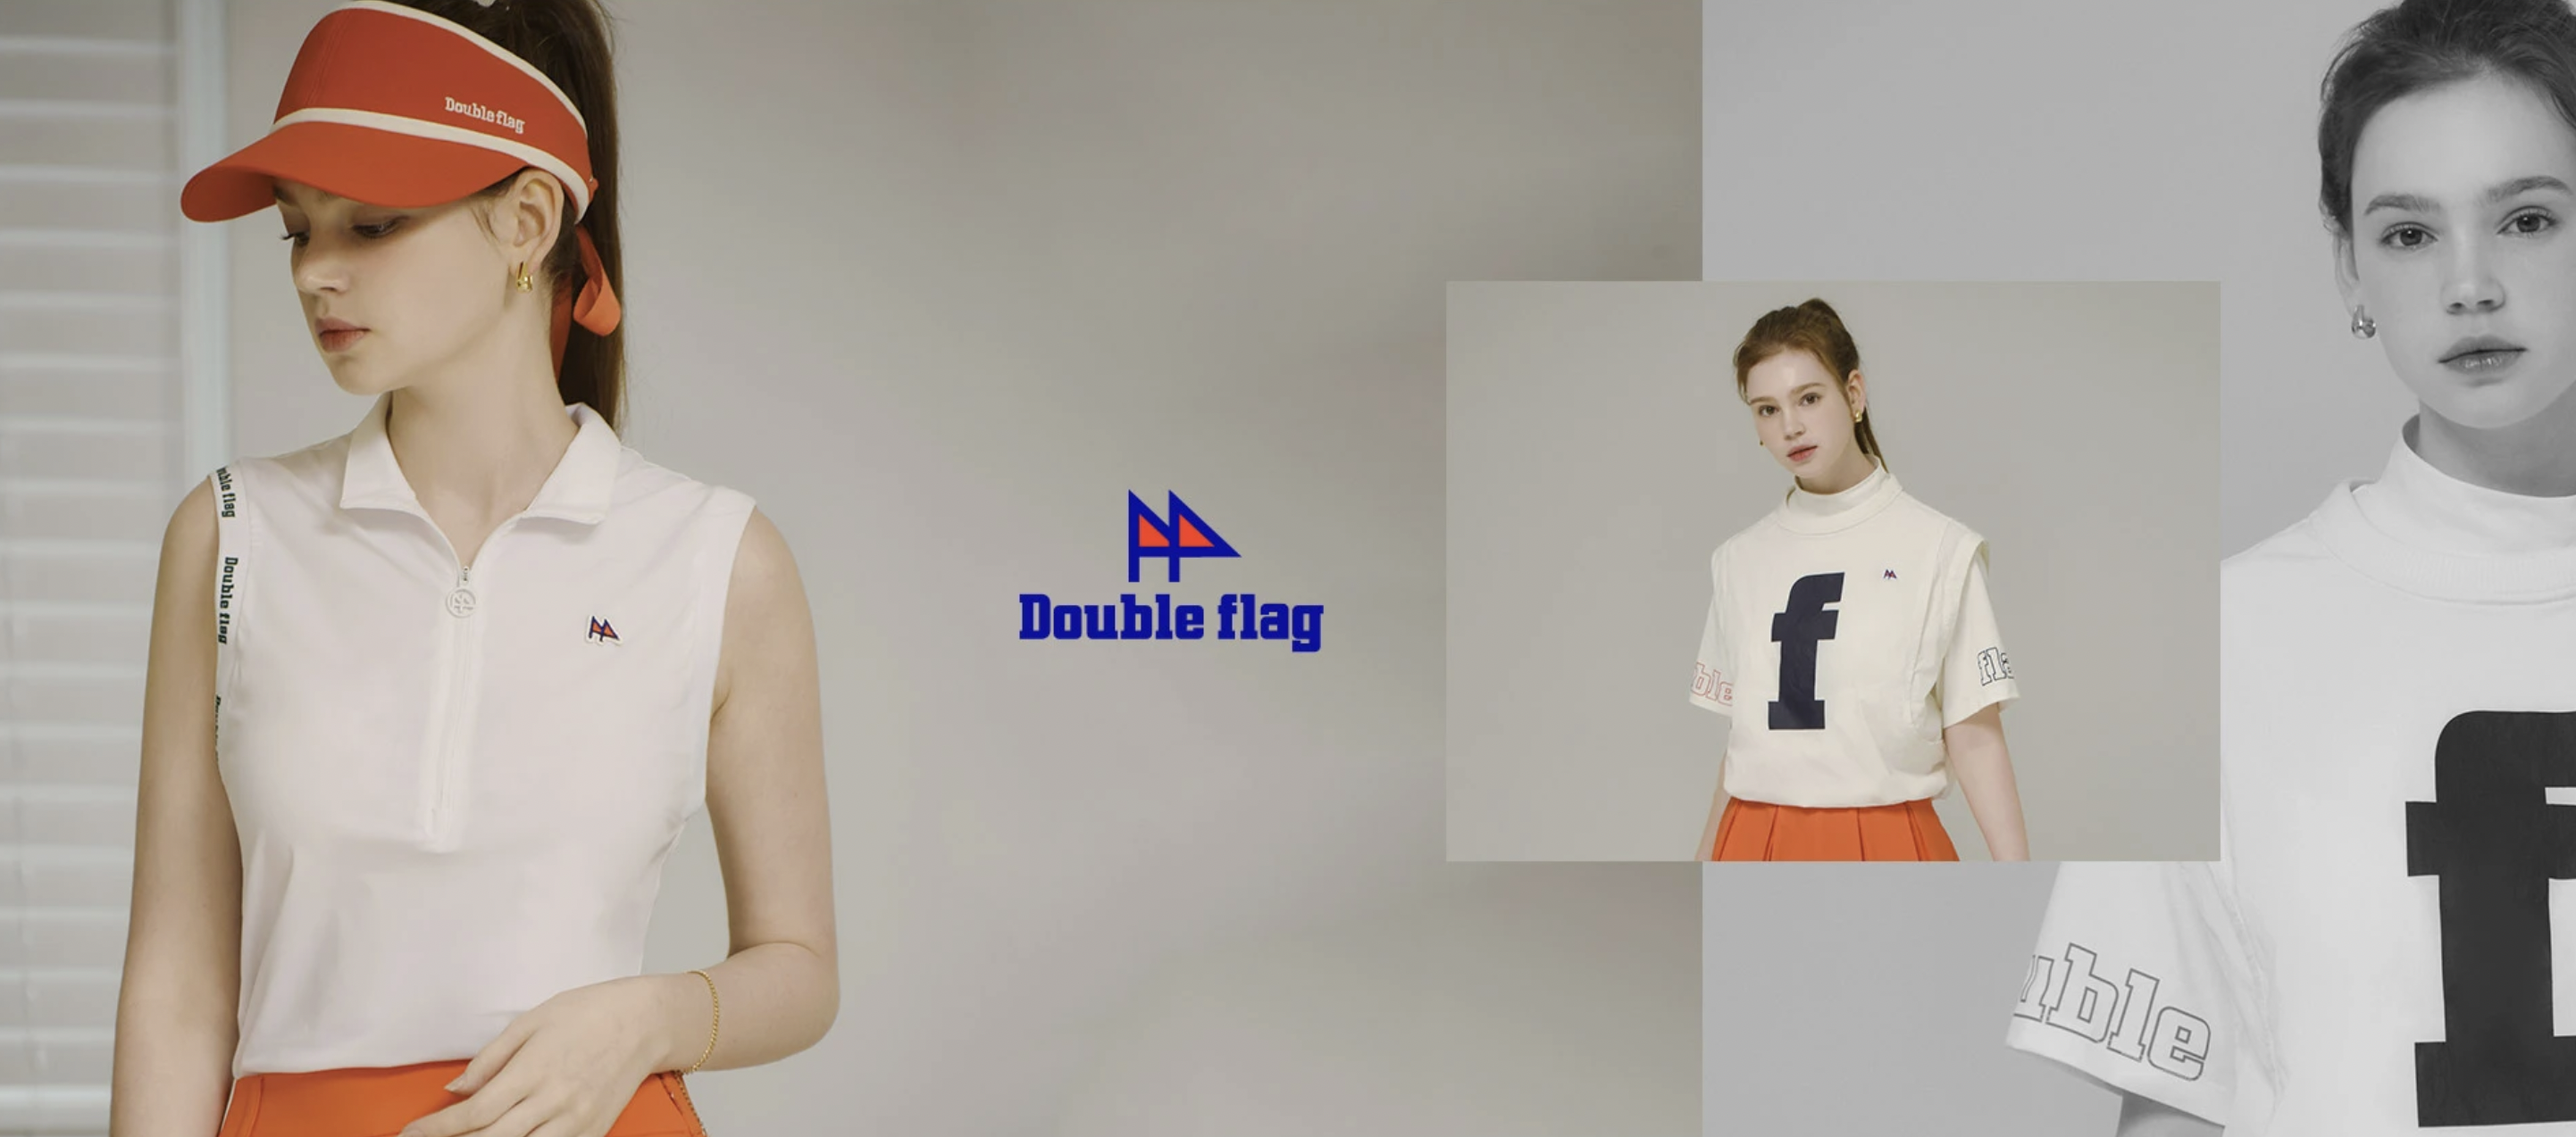
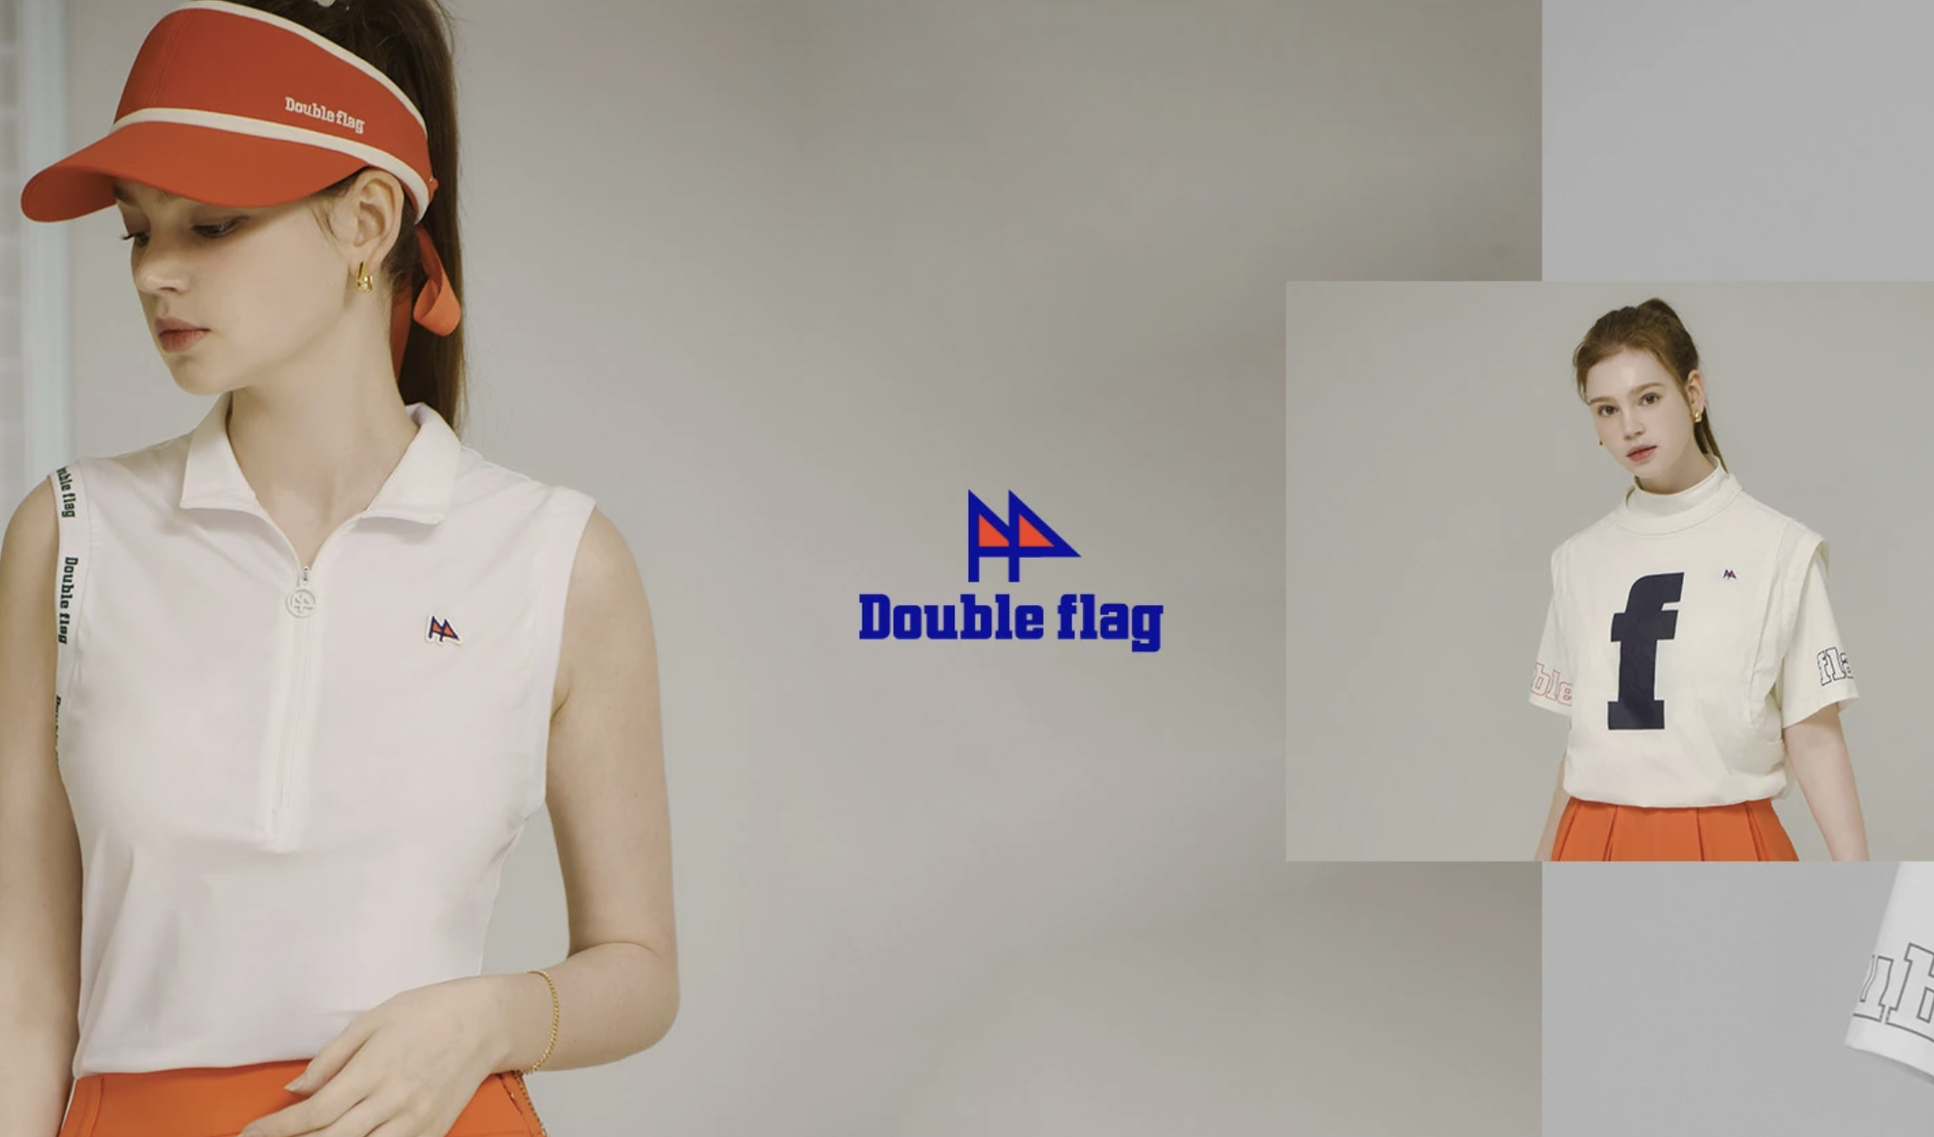
image 추가

diff --git a/index.html b/index.html
@@ -25,8 +25,8 @@
       <div class="slider-container">
         <div class="slider">
           <img src="assets/img/banner3.png" alt="Banner 1" />
-          <img src="assets/img/banner4.png" alt="Banner 1" />
           <img src="assets/img/banner6.webp" alt="Banner 3" />
+          <img src="assets/img/banner5.png" alt="Banner 3" />
         </div>
       </div>
       <!-- <div class="navigation">
